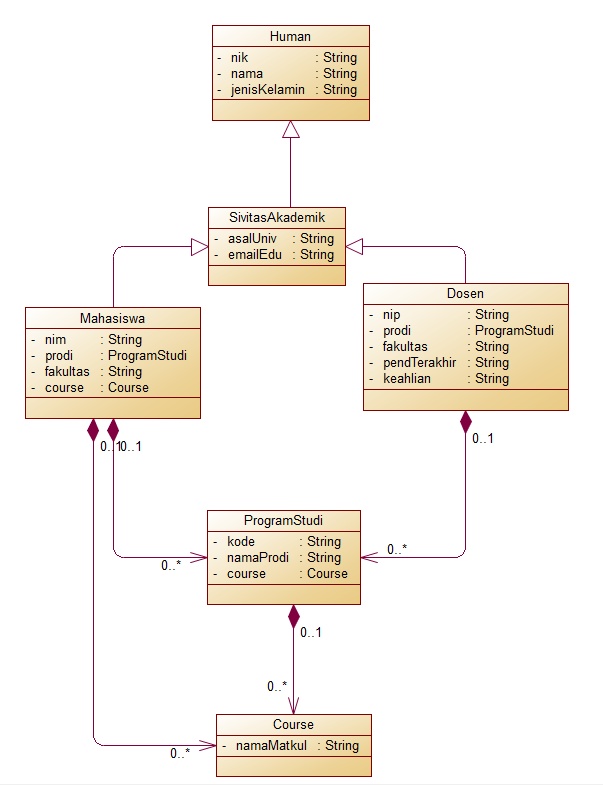
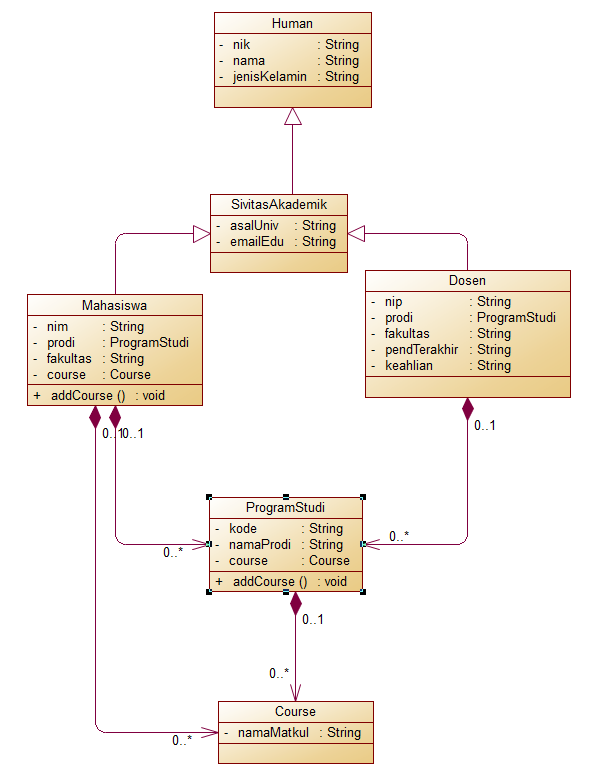
first

Changed region(s): [[0.0301, 0.0, 0.9616, 1.0]]

diff --git a/README.md b/README.md
@@ -22,7 +22,9 @@ Desain yang saya buat menggunakan 4 Class:
 * Human
 * Sivitas Akademik
 * Mahasiswa
-* Crud
+* Dosen
+* ProgramStudi
+* Course
 
 `Class Human` memiliki total tiga atribut:
 * **NIK** -> NIK manusia, `string`
@@ -33,13 +35,20 @@ Desain yang saya buat menggunakan 4 Class:
 * **asalUniv** -> asal Universitas sivitas akademik, `string`
 * **emailEdu** -> email Edu sivitas akademik, `string`
 
-`Class Mahasiswa` memiliki total empat atribut dan atribut dari parentnya `Class SivitasAkademik`:
+`Class Mahasiswa` memiliki total empat atribut dan atribut dari parentnya `Class SivitasAkademik` dan meng composite `Class ProgramStudi` dan `Class Course`:
 * **NIM** -> NIM mahasiswa, `string`
 * **Prodi** -> program studi mahasiswa, `string`
 * **Fakultas** -> Fakultas mahasiswa, `string`
 * **Course** -> object Course, `Course`
 
 `Class Dosen` memiliki total empat atribut dan atribut dari parentnya `Class SivitasAkademik`:
+* **NIP** -> NIP mahasiswa, `string`
+* **Prodi** -> program studi mahasiswa, `string`
+* **Fakultas** -> Fakultas mahasiswa, `string`
+* **PendidikanTrakhir** -> object PendTrakhir, `PendTrakhir`
+* **Keahlian** -> object keahlian, `keahlian`
+
+`Class ProgramStudi`:
 * **NIP** -> NIP mahasiswa, `string`
 * **Prodi** -> program studi mahasiswa, `string`
 * **Fakultas** -> Fakultas mahasiswa, `string`
@@ -73,23 +82,7 @@ Pada `Class Crud` terdapat dua list yaitu `list` dan `listNim`
 `Kenapa?` itu dibuat agar library yang ada digunakan dengan semestinya seperti library find pada bahasa c++ dipakai untuk mengecek apakah disuatu data terdapat data NIM yang redundant atau tidak jadi bisa dicek di `listNIM`
 
 ## Alur Program
-**semua program mempunyai alur yang sama, kecuali PHP karena inputan secara hardcore dari codenya**
-
-Pengguna akan diminta untuk mengetikkan perintah pada command prompt
-
-Pengguna dapat memilih untuk mengetikkan serangkaian perintah berikut pada command prompt
-
-- ketik `tambah [NIK] [NIM] [Nama] [Jenis Kelamin] [Asal Universitas] [Email Edu] [Prodi] [Fakultas]` untuk menambah data pada list
-
-<!-- - ketik `ganti [NIM] [Nama] [Prodi] [Fakultas]` untuk mengganti data pada list -->
-
-<!-- - ketik `hapus [NIM]` untuk menghapus data pada list -->
-
-- ketik `tampil` untuk menampilkan data pada list
-
-- ketik `exit` untuk keluar dari looping
-
-Seteleh memilih maka akan dimintai mengetikkan perintah berikutnya sampai mengetik perintah `exit`
+Program ini harcore jadi tidak memerlukan inpuntan sendiri
 
 ## Dokumentasi
 **Program Python**
